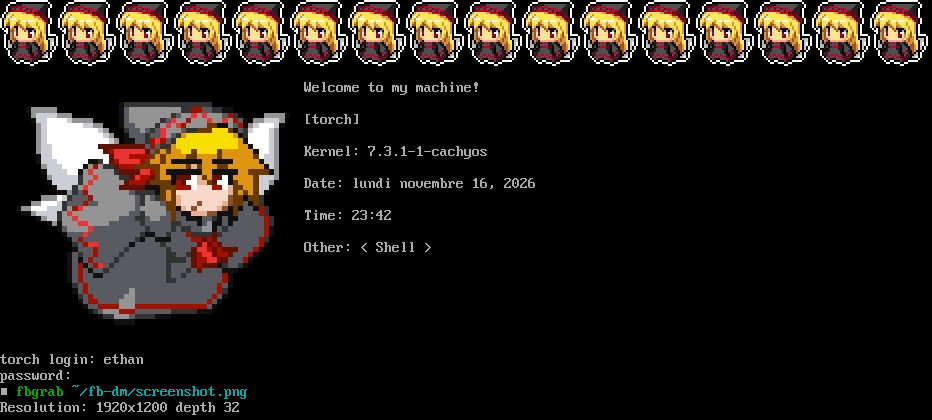
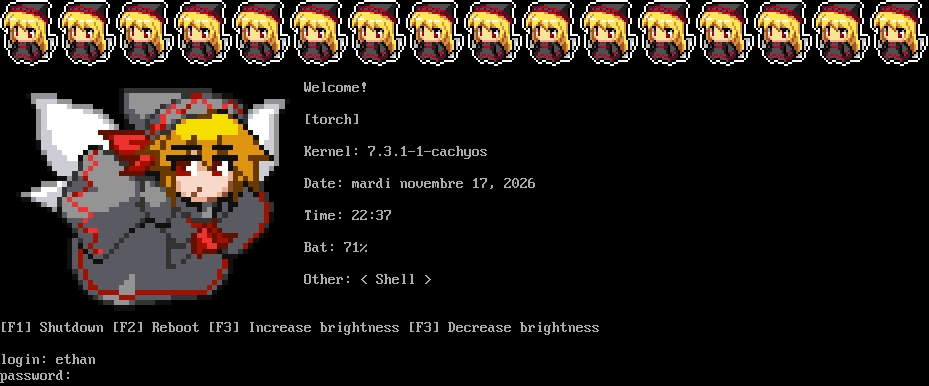
Fixed F3 typo and updated custom screenshot

diff --git a/src/main.c b/src/main.c
@@ -79,7 +79,7 @@ int main()
 
 	if (opt_brightness) {
 		set_brightness_values();
-		printf("[F3] Increase brightness [F3] Decrease brightness\n\n");
+		printf("[F3] Increase brightness [F4] Decrease brightness\n\n");
 	} else
 		printf("\n\n");
 
